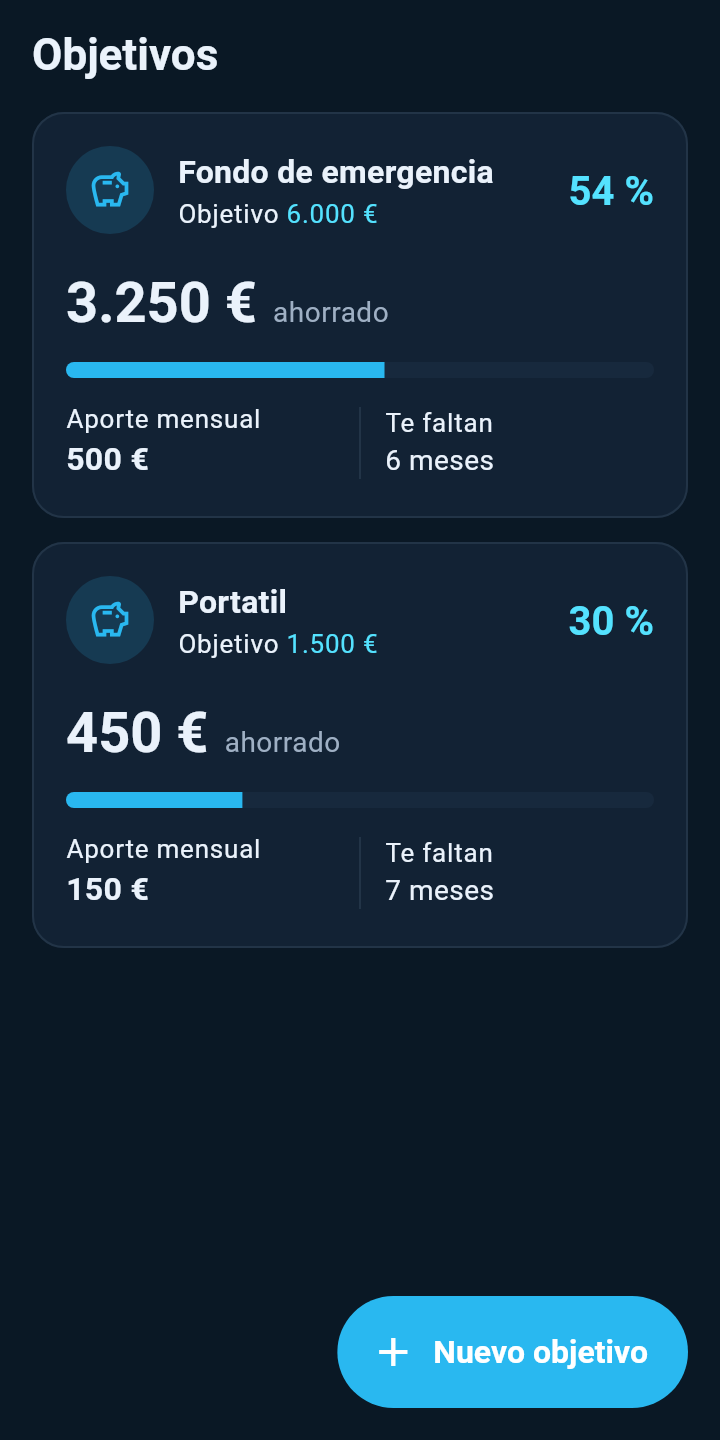
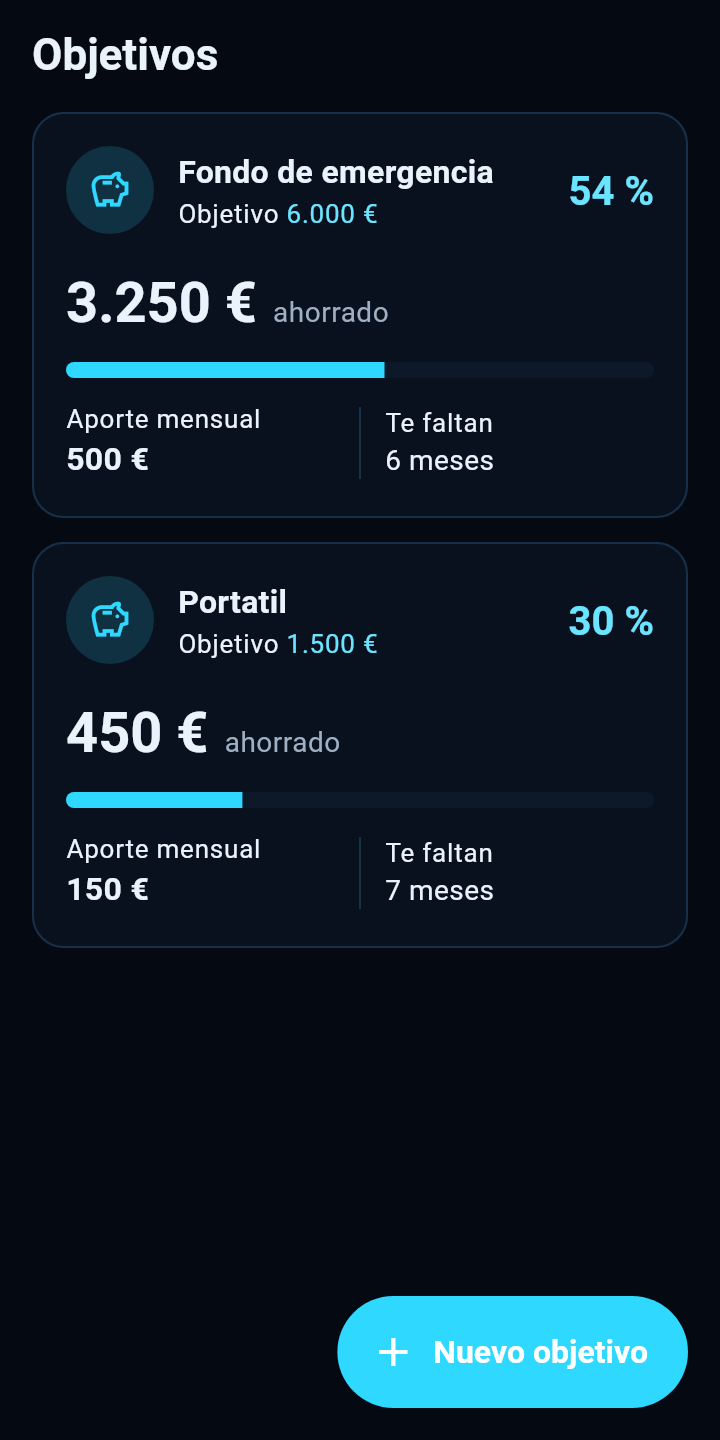
feat: tokens visuales reales de PALIKO, según el módulo compartido
Andy aportó la nota MOD que faltaba, la que comparten PALIKO, GameVault y
Economy Tracker. Manda ella, como DEC-007 ya anticipaba, y los valores
diferían de forma apreciable de lo que yo había muestreado de los PNG: el
fondo real es #050A12, más oscuro y menos azul que el #0A1825 que salía del
render, y el acento #2ED8FF es más eléctrico que #29B8F0.

Un PNG con degradado no es una fuente de tokens: da tantos tonos como
píxeles. Ahora el fondo, la superficie, el borde, el acento y la escala de
espaciado son los literales de PALIKO.

Lo que la nota no fija con un hexadecimal (colores semánticos financieros y
jerarquía de texto) sigue viniendo de los mockups congelados, y los tres
tonos interpolados quedan marcados como tales en el propio código. Los radios
se conservan con los nombres de la escala PALIKO: la nota no da sus valores.

DEC-007 pasa de propuesta a activa, y el módulo queda guardado en el Vault.

125 tests.

Claude-Session: https://claude.ai/code/session_012mP3bwJGYBv7tjQMUvQa6f

diff --git a/lib/app/theme/app_tokens.dart b/lib/app/theme/app_tokens.dart
@@ -2,56 +2,76 @@ import 'package:flutter/material.dart';
 
 /// Tokens del sistema visual PALIKO para Economy Tracker.
 ///
-/// Los valores derivan del contrato visual congelado (Pack visual v0.1):
-/// se muestrearon directamente los PNG aprobados en
-/// `docs/vault/04_Diseno_UI_UX/_attachments/`, en vez de reinterpretar los
-/// principios del texto con valores propios. Ver `docs/DEC-007-tokens.md`.
+/// Fuente de verdad: `MOD · Sistema visual oscuro grafito-cian (Flutter)`,
+/// el modulo compartido entre PALIKO, GameVault y Economy Tracker. De ahi
+/// salen, literales, el fondo, la superficie, el borde, el acento y la
+/// escala de espaciado.
+///
+/// Los roles que esa nota no fija con un hexadecimal —los colores semanticos
+/// financieros y la jerarquia de texto— se muestrearon de los mockups
+/// aprobados en `docs/vault/04_Diseno_UI_UX/_attachments/`, que el Pack
+/// visual declara contrato congelado. Cada token dice de donde sale, para que
+/// la proxima persona no tenga que adivinarlo. Ver DEC-007.
 abstract final class AppTokens {
   const AppTokens._();
 
   // --- Fondos y superficies -------------------------------------------------
 
-  /// Fondo raiz. Grafito azulado muy oscuro (muestreado en margenes de UI-01).
-  static const Color background = Color(0xFF0A1825);
+  /// Fondo raiz. Valor PALIKO.
+  static const Color background = Color(0xFF050A12);
 
-  /// Fondo de tarjetas y paneles sobre [background].
-  static const Color surface = Color(0xFF122234);
+  /// Fondo de tarjetas y paneles sobre [background]. Valor PALIKO.
+  static const Color surface = Color(0xFF09111E);
 
   /// Paneles elevados: hojas modales, menus, campos de formulario.
-  static const Color surfaceElevated = Color(0xFF17293D);
+  ///
+  /// PALIKO no define un tercer nivel en la nota del modulo: se interpola
+  /// entre [surface] y [border] para separar lo elevado sin inventar un tono.
+  static const Color surfaceElevated = Color(0xFF0D1829);
 
-  /// Superficie sutil: filas de lista, chips inactivos.
-  static const Color surfaceSubtle = Color(0xFF0F1E2E);
+  /// Superficie sutil: filas de lista y chips inactivos. Derivada igual que
+  /// la anterior, entre el fondo y la superficie.
+  static const Color surfaceSubtle = Color(0xFF070E19);
 
   // --- Bordes ---------------------------------------------------------------
 
-  static const Color border = Color(0xFF223447);
-  static const Color borderStrong = Color(0xFF2E4459);
+  /// Valor PALIKO.
+  static const Color border = Color(0xFF17304A);
+
+  /// Borde de enfasis, aclarado sobre [border] para paneles destacados.
+  static const Color borderStrong = Color(0xFF224A6B);
 
   // --- Acento ---------------------------------------------------------------
 
-  /// Acento principal azul-cian: accion central, chips activos, enlaces.
-  static const Color accent = Color(0xFF29B8F0);
+  /// Acento principal cian electrico. Valor PALIKO.
+  static const Color accent = Color(0xFF2ED8FF);
 
   /// Variante clara del acento: iconos y rotulos de pestana activa.
-  static const Color accentBright = Color(0xFF54E2FF);
+  static const Color accentBright = Color(0xFF6BE5FF);
 
-  /// Acento apagado para trazados y fondos de grafico.
-  static const Color accentDim = Color(0xFF1C6E9B);
+  /// Variante apagada del acento: trazados y fondos de grafico.
+  static const Color accentDim = Color(0xFF1B7E9B);
 
   /// Velo translucido del acento sobre superficies.
-  static const Color accentSurface = Color(0x1F29B8F0);
+  static const Color accentSurface = Color(0x1F2ED8FF);
 
   /// Texto e iconos sobre acento solido.
-  static const Color onAccent = Color(0xFF04161F);
+  static const Color onAccent = Color(0xFF031017);
 
   // --- Texto ----------------------------------------------------------------
+  //
+  // Muestreados de los mockups: la nota del modulo no fija la jerarquia de
+  // texto con hexadecimales.
 
   static const Color textPrimary = Color(0xFFEAF2FB);
   static const Color textSecondary = Color(0xFF9FB0C4);
   static const Color textMuted = Color(0xFF6C7F93);
 
   // --- Semanticos (Sistema visual v0.1) -------------------------------------
+  //
+  // Mapean a los roles success / danger / warning de PALIKO. La nota del
+  // modulo no da sus hexadecimales, asi que estos vienen de los mockups
+  // aprobados de Economy Tracker.
 
   /// Ingreso cobrado, saldo positivo, progreso cumplido.
   static const Color positive = Color(0xFF5FE0A0);
@@ -65,24 +85,50 @@ abstract final class AppTokens {
   static const Color pending = Color(0xFFF2A93B);
   static const Color pendingSurface = Color(0x1FF2A93B);
 
-  /// Previsto / informacion de interfaz. Comparte tono con el acento.
+  /// Previsto e informacion de interfaz. Comparte tono con el acento.
   static const Color forecast = accent;
   static const Color forecastSurface = accentSurface;
 
   // --- Espaciado ------------------------------------------------------------
+  //
+  // Escala PALIKO: xs 4 · sm 8 · md 12 · lg 16 · xl 24 · xxl 32.
 
-  static const double space1 = 4;
-  static const double space2 = 8;
-  static const double space3 = 12;
-  static const double space4 = 16;
-  static const double space5 = 24;
-  static const double space6 = 32;
+  static const double spaceXs = 4;
+  static const double spaceSm = 8;
+  static const double spaceMd = 12;
+  static const double spaceLg = 16;
+  static const double spaceXl = 24;
+  static const double spaceXxl = 32;
+
+  // Alias numerados: es como los usa toda la interfaz.
+  static const double space1 = spaceXs;
+  static const double space2 = spaceSm;
+  static const double space3 = spaceMd;
+  static const double space4 = spaceLg;
+  static const double space5 = spaceXl;
+  static const double space6 = spaceXxl;
+
+  /// Margen lateral de pantalla.
+  ///
+  /// Anclado a [spaceXl] por decision de Economy Tracker, no por PALIKO:
+  /// bajarlo estrecharia un margen ya validado visualmente.
+  static const double spacePage = spaceXl;
 
   // --- Radios ---------------------------------------------------------------
+  //
+  // PALIKO tiene escala nombrada (sm/md/lg/xl/pill), pero la nota del modulo
+  // no da sus valores numericos: se conservan los de Economy Tracker con los
+  // nombres de la escala, pendientes de confirmar cuando se extraiga el
+  // paquete compartido.
 
-  static const double radiusCard = 16;
-  static const double radiusControl = 12;
+  static const double radiusSm = 8;
+  static const double radiusMd = 12;
+  static const double radiusLg = 16;
+  static const double radiusXl = 24;
   static const double radiusPill = 999;
+
+  static const double radiusCard = radiusLg;
+  static const double radiusControl = radiusMd;
 
   /// Objetivo tactil minimo recomendado en Android.
   static const double minTouchTarget = 48;

diff --git a/docs/vault/07_Modulos/MOD · Sistema visual oscuro grafito-cian (Flutter).md b/docs/vault/07_Modulos/MOD · Sistema visual oscuro grafito-cian (Flutter).md
@@ -1,0 +1,52 @@
+---
+id: MOD-FLUTTER-SISTEMA-VISUAL
+project: PERSONAL
+type: reference
+status: review
+owner: compartido
+category: module
+area: flutter_ui
+used_in:
+  - PALIKO
+  - GAMEVAULT
+  - ECONOMY_TRACKER
+next_action: Decidir si se extrae a un paquete Dart compartido (design_tokens) o se deja como plantilla a copiar/adaptar por app.
+created: 2026-09-09
+updated: 2026-09-09
+---
+
+# MOD · Sistema visual oscuro grafito-cian (Flutter)
+
+## Qué es
+
+La identidad visual "PALIKO" (fondo grafito/azul oscuro, acento cian eléctrico, tarjetas/paneles, jerarquía tipográfica clara) — el lenguaje que **ya usan tres apps Flutter**, pero **cada una lo reimplementó por su cuenta**: no hay una sola fuente de verdad, y los valores ya han divergido.
+
+## Dónde vive (código real, verificado)
+
+- PALIKO — `apps/paliko_flutter/lib/core/ui/tokens/` (`paliko_colors.dart`, `paliko_spacing.dart`, `paliko_radius.dart`, `paliko_typography.dart`, `paliko_shadows.dart`) + `paliko_theme.dart`. Es la implementación más completa: incluye también widgets (`empty_state.dart`, `error_state.dart`, `status_badge.dart`, `panel_card.dart`, `sidebar_nav.dart`, `top_bar.dart`, etc. en `core/ui/widgets/`).
+- GameVault — `lib/app/theme/app_colors.dart` + `app_theme.dart`. Paleta y radios definidos ad hoc, sin escala de spacing/radius reutilizable.
+- Economy Tracker — `lib/app/theme/app_tokens.dart` + `app_theme.dart`. Tiene su propia escala de spacing (`AppSpace`) y colores (`AppColors`), con nombres de rol en vez de nombres visuales.
+
+## Divergencia real encontrada (histórico) y corrección aplicada
+
+- Fondo: PALIKO `#050A12` / GameVault `#0B1220` / Economy Tracker (antes) `#0C1420` — misma intención, tres grises-azulados distintos.
+- Acento cian: PALIKO `#2ED8FF` / GameVault `#2FD7FF` (casi igual) / Economy Tracker (antes) `#53D5F2` (notablemente más claro).
+- Escala de espaciado `md`: PALIKO 12 / Economy Tracker (antes) 16 — no coincidían.
+- Radios: PALIKO tiene escala nombrada (`sm/md/lg/xl/pill`); GameVault y Economy Tracker usan números sueltos en cada widget.
+- Patrón "estado vacío" (icono + título + mensaje + acción opcional) y "badge de estado" (texto + color por tono + fondo translúcido + borde) están **reimplementados los tres**, con la misma forma pero código distinto (`EmptyState` en PALIKO/GameVault, `FeaturePlaceholder` en Economy Tracker; `StatusBadge`/`GameStatusBadge`/`SessionStatusBadge`/`StatusIndicator`).
+
+**Corregido el 2026-09-09 en Economy Tracker:** `lib/app/theme/app_tokens.dart` reescrito para usar los hexadecimales y la escala de spacing/radius exactos de PALIKO (`background #050A12`, `surface #09111E`, `border #17304A`, `primary #2ED8FF`, escala `xs4/sm8/md12/lg16/xl24/xxl32`). Los roles semánticos financieros (`positive/negative/pending`) sin equivalente literal en PALIKO se mapearon a sus tokens `success/danger/warning`. `AppSpace.page` se ancló deliberadamente a `xl` (24, no a PALIKO directamente) para no reducir el margen de pantalla ya validado visualmente en los placeholders — queda documentado en el propio archivo como decisión de Economy Tracker, no como valor PALIKO. Blast radius verificado por grep antes de aplicar: `expenses_screen.dart` usa números de spacing sueltos que ya coincidían numéricamente con la escala PALIKO (no se tocó); los widgets compartidos (`app_shell.dart`, `feature_placeholder.dart`, `metric_card.dart`, `status_indicator.dart`) heredan el cambio vía los tokens, sin lógica propia que rompiese.
+
+**GameVault sigue divergiendo** (paleta y radios ad hoc en `app_colors.dart`/`app_theme.dart`, sin escala reutilizable) — fuera de alcance aquí: GameVault es dominio de Claude Code, no de esta sesión (ver [[REF · Ejecutor activo por proyecto]]). No se ha tocado.
+
+## Estado
+
+Economy Tracker ya no diverge de PALIKO en color/spacing (corregido). GameVault sigue como candidato pendiente de extracción/unificación. Ningún paquete compartido existe todavía: cualquier ajuste de marca futuro sigue requiriendo tocar PALIKO + GameVault a mano (Economy Tracker ahora al menos parte de los mismos valores, aunque copiados, no importados).
+
+## Contrato de reutilización (si se extrae)
+
+Un paquete Dart local (`design_tokens` o similar, vía path dependency) con: colores base + colores de rol, escala de spacing, escala de radius, escala tipográfica, `ThemeData` builder, y los 2-3 widgets de estado (empty/error/badge). Cada app mapea sus propios nombres de rol (ej. `AppColors.primary` de Economy Tracker) a los tokens del paquete.
+
+## Siguiente paso
+
+No implementar la extracción a paquete todavía sin decisión explícita de Andy. Si en algún momento se decide unificar de verdad (no solo copiar valores), GameVault es quien queda pendiente de migrar — y esa migración le corresponde al ejecutor de GameVault (Claude Code), no a esta sesión.

diff --git a/docs/vault/05_Decisiones/DEC-007 · Origen de los tokens visuales.md b/docs/vault/05_Decisiones/DEC-007 · Origen de los tokens visuales.md
@@ -1,0 +1,73 @@
+---
+id: DEC-007
+project: ECONOMY_TRACKER
+type: decision
+status: active
+mode: diario
+owner: compartido
+related_cut: ECON-100A
+created: 2026-09-13
+updated: 2026-09-13
+---
+
+# DEC-007 · Origen de los tokens visuales
+
+## Decisión
+
+`VISUAL_TOKENS_SOURCE = MOD_PALIKO`, con los mockups como fuente supletoria.
+
+Manda [[MOD · Sistema visual oscuro grafito-cian (Flutter)]], el módulo
+compartido entre PALIKO, GameVault y Economy Tracker. De ahí salen, literales:
+
+| Token | Valor | Origen |
+| --- | --- | --- |
+| background | `#050A12` | PALIKO |
+| surface | `#09111E` | PALIKO |
+| border | `#17304A` | PALIKO |
+| accent | `#2ED8FF` | PALIKO |
+| espaciado | xs 4 · sm 8 · md 12 · lg 16 · xl 24 · xxl 32 | PALIKO |
+
+Lo que esa nota **no** fija con un hexadecimal se muestrea de los ocho PNG
+aprobados, que [[Pack visual v0.1]] declara contrato congelado: los colores
+semánticos financieros (`positive`, `negative`, `pending`, que mapean a los
+roles `success` / `danger` / `warning` de PALIKO) y la jerarquía de texto.
+
+Tres valores son interpolados y quedan señalados como tales en el código,
+porque no existen ni en la nota ni en los mockups: `surfaceElevated`,
+`surfaceSubtle` y `borderStrong`. Cada token lleva escrito de dónde sale.
+
+## Historia de esta decisión
+
+Se abrió como propuesta el 2026-09-13 porque la nota MOD no estaba en la
+documentación entregada, y los colores se muestrearon provisionalmente de los
+mockups. Andy aportó la nota el mismo día y los valores se sustituyeron por
+los de PALIKO, que es lo que la propuesta ya anticipaba: *«si esa nota define
+tokens distintos, manda ella»*. Diferían de forma apreciable: el fondo
+muestreado (`#0A1825`) era más claro y más azul que el `#050A12` real, y el
+acento (`#29B8F0`) menos eléctrico que `#2ED8FF`.
+
+## Pendiente, no resuelto aquí
+
+- **Los radios.** PALIKO tiene escala nombrada (`sm/md/lg/xl/pill`) pero la
+  nota no da sus valores numéricos. Economy Tracker conserva los suyos con
+  los nombres de la escala, a confirmar cuando se extraiga el paquete.
+- **`AppSpace.page` anclado a `xl` (24).** Es decisión de Economy Tracker y
+  no un valor PALIKO, tal como la propia nota MOD documenta.
+- **Extracción a paquete Dart compartido.** La nota MOD la deja abierta y
+  pendiente de decisión expresa de Andy. Economy Tracker parte hoy de los
+  mismos valores, copiados, no importados.
+
+## Divergencia de semántica de color, todavía abierta
+
+[[Pack visual v0.1]] reporta que algunas cifras de gasto y de pendiente
+aparecen en cian en las imágenes individuales, mientras [[Sistema visual v0.1]]
+define rojo para gasto y amarillo para pendiente.
+
+Criterio aplicado, a confirmar por Andy al revisar en dispositivo: el color
+semántico va en el importe cuando la lista mezcla entradas y salidas de
+dinero, y en el indicador de estado cuando la lista es de un solo tipo. Es lo
+que hacen los propios mockups: en UI-01 los gastos van en rojo, y en UI-03 el
+importe va en blanco con un chip ámbar al lado.
+
+Relacionado: [[MOD · Sistema visual oscuro grafito-cian (Flutter)]] ·
+[[Sistema visual v0.1]] · [[Pack visual v0.1]] · [[DEC-004 · Diseño y navegación]]

diff --git a/docs/vault/05_Decisiones/Índice de decisiones.md b/docs/vault/05_Decisiones/Índice de decisiones.md
@@ -8,3 +8,4 @@ Decisiones del prompt de fundación de 2026-09-05.
 - [[DEC-004 · Diseño y navegación]]
 - [[DEC-005 · Recurrencias en días inexistentes]]
 - [[DEC-006 · Importe neto en cobros de proyecto]]
+- [[DEC-007 · Origen de los tokens visuales]]
